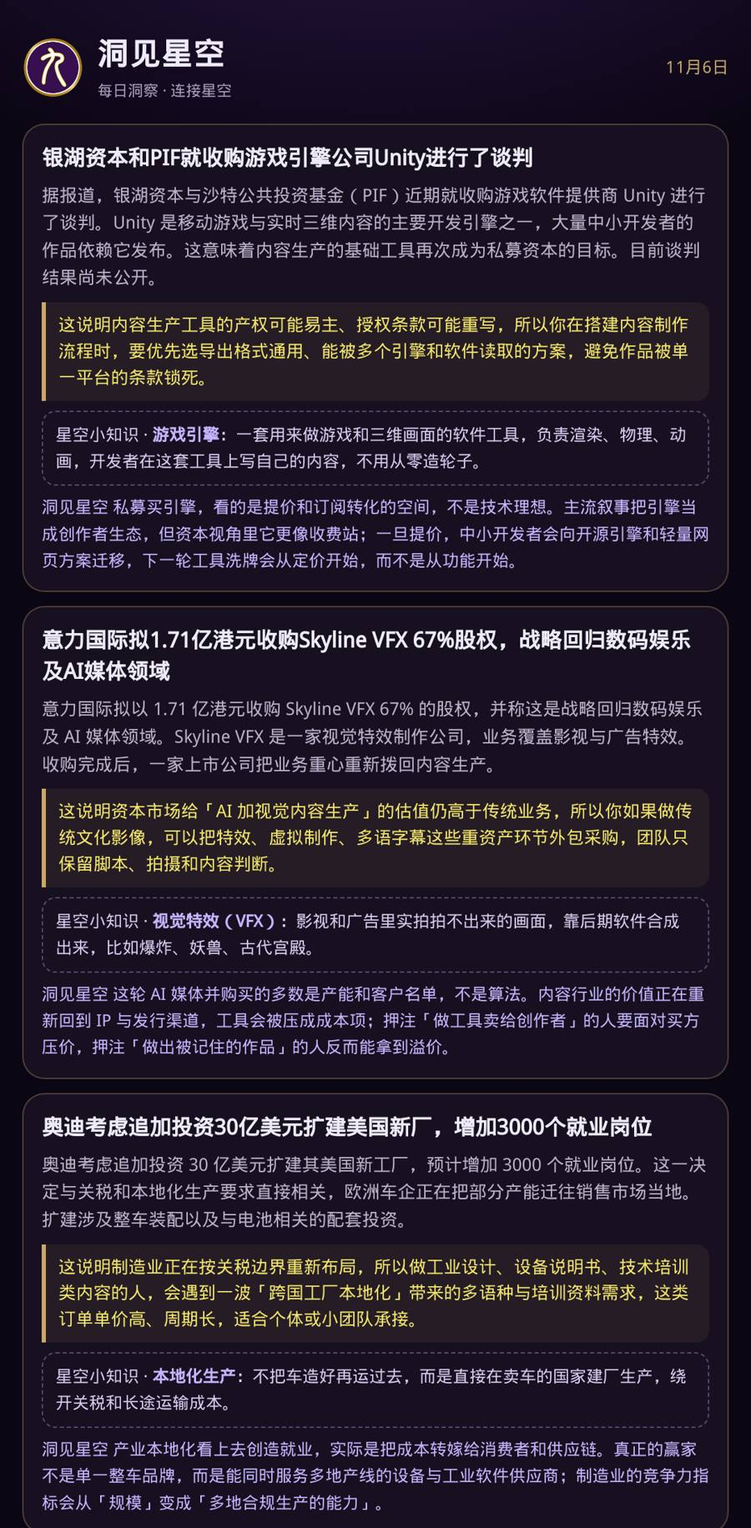
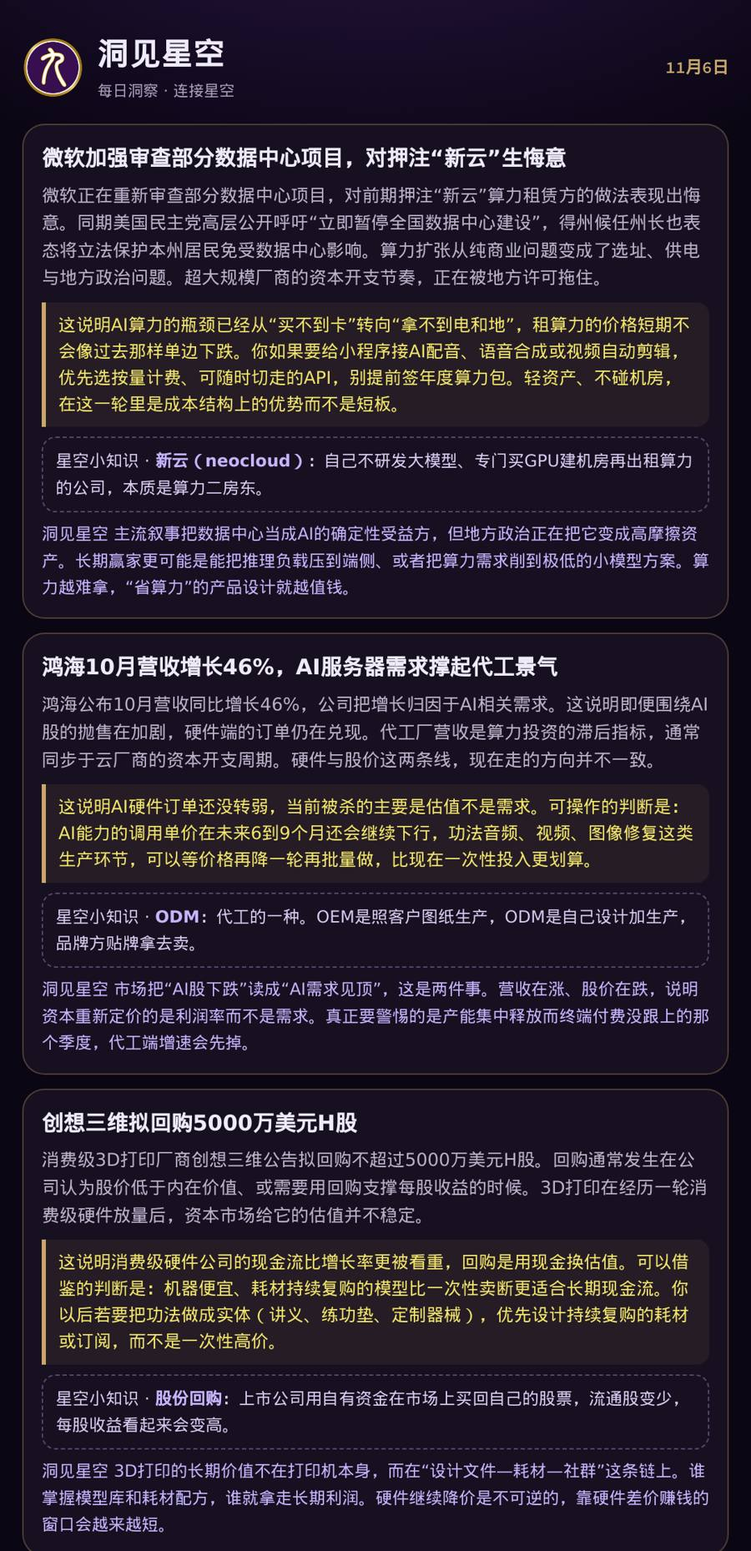
brief 2026-11-06

Changed region(s): [[0.0311, 0.0311, 0.9644, 0.9956], [0.9022, 0.0311, 0.9644, 0.0622], [0.9333, 0.6845, 0.9644, 0.7156]]

diff --git a/2026-11-06.html b/2026-11-06.html
@@ -52,4 +52,4 @@ a{color:#b9a6ff;text-decoration:none}
 .teach{margin-top:10px;padding:10px 12px;border:1px dashed rgba(196,181,253,.35);border-radius:12px;font-size:13.5px;color:#d6ccf0}
 .teach b{color:var(--acc);font-weight:600}
 .foot{margin-top:44px;text-align:center;color:#5d5570;font-size:11px;letter-spacing:1.5px}
-</style></head><body><div class=grid></div><div class=wrap><div class=kicker>DONGJIAN · MORNING</div><div class=head><img class=logo src='logo.png' alt=logo><h1>洞见星空早报</h1></div><div class=sub>2026 年 11 月 6 日 · 星期五</div><h2>世界资讯 · 10</h2><div class=card><h3>银湖资本和PIF就收购游戏引擎公司Unity进行了谈判</h3><p>据报道，银湖资本与沙特公共投资基金（PIF）近期就收购游戏软件提供商 Unity 进行了谈判。Unity 是移动游戏与实时三维内容的主要开发引擎之一，大量中小开发者的作品依赖它发布。这意味着内容生产的基础工具再次成为私募资本的目标。目前谈判结果尚未公开。</p><div class=why>这说明内容生产工具的产权可能易主、授权条款可能重写，所以你在搭建内容制作流程时，要优先选导出格式通用、能被多个引擎和软件读取的方案，避免作品被单一平台的条款锁死。</div><div class=teach>星空小知识 · <b>游戏引擎</b>：一套用来做游戏和三维画面的软件工具，负责渲染、物理、动画，开发者在这套工具上写自己的内容，不用从零造轮子。</div><div class=insight><b>洞察</b> 私募买引擎，看的是提价和订阅转化的空间，不是技术理想。主流叙事把引擎当成创作者生态，但资本视角里它更像收费站；一旦提价，中小开发者会向开源引擎和轻量网页方案迁移，下一轮工具洗牌会从定价开始，而不是从功能开始。</div><div class=chips><a class='chip acc' href='https://finance.sina.com.cn/stock/usstock/c/2026-11-06/doc-inixtxky8323323.shtml'>新浪财经</a></div></div><div class=card><h3>意力国际拟1.71亿港元收购Skyline VFX 67%股权，战略回归数码娱乐及AI媒体领域</h3><p>意力国际拟以 1.71 亿港元收购 Skyline VFX 67% 的股权，并称这是战略回归数码娱乐及 AI 媒体领域。Skyline VFX 是一家视觉特效制作公司，业务覆盖影视与广告特效。收购完成后，一家上市公司把业务重心重新拨回内容生产。</p><div class=why>这说明资本市场给「AI 加视觉内容生产」的估值仍高于传统业务，所以你如果做传统文化影像，可以把特效、虚拟制作、多语字幕这些重资产环节外包采购，团队只保留脚本、拍摄和内容判断。</div><div class=teach>星空小知识 · <b>视觉特效（VFX）</b>：影视和广告里实拍拍不出来的画面，靠后期软件合成出来，比如爆炸、妖兽、古代宫殿。</div><div class=insight><b>洞察</b> 这轮 AI 媒体并购买的多数是产能和客户名单，不是算法。内容行业的价值正在重新回到 IP 与发行渠道，工具会被压成成本项；押注「做工具卖给创作者」的人要面对买方压价，押注「做出被记住的作品」的人反而能拿到溢价。</div><div class=chips><a class='chip acc' href='https://finance.sina.com.cn/stock/hkstock/ggscyd/2026-11-06/doc-inixtxmk5623464.shtml'>新浪财经</a></div></div><div class=card><h3>奥迪考虑追加投资30亿美元扩建美国新厂，增加3000个就业岗位</h3><p>奥迪考虑追加投资 30 亿美元扩建其美国新工厂，预计增加 3000 个就业岗位。这一决定与关税和本地化生产要求直接相关，欧洲车企正在把部分产能迁往销售市场当地。扩建涉及整车装配以及与电池相关的配套投资。</p><div class=why>这说明制造业正在按关税边界重新布局，所以做工业设计、设备说明书、技术培训类内容的人，会遇到一波「跨国工厂本地化」带来的多语种与培训资料需求，这类订单单价高、周期长，适合个体或小团队承接。</div><div class=teach>星空小知识 · <b>本地化生产</b>：不把车造好再运过去，而是直接在卖车的国家建厂生产，绕开关税和长途运输成本。</div><div class=insight><b>洞察</b> 产业本地化看上去创造就业，实际是把成本转嫁给消费者和供应链。真正的赢家不是单一整车品牌，而是能同时服务多地产线的设备与工业软件供应商；制造业的竞争力指标会从「规模」变成「多地合规生产的能力」。</div><div class=chips><a class='chip acc' href='https://finance.sina.com.cn/stock/usstock/c/2026-11-06/doc-inixtxky8324781.shtml'>新浪财经</a></div></div><div class=card><h3>AI抛售潮中买家消失：高盛交易台电话被打爆却无人接盘，对冲基金与散户齐撤</h3><p>报道称在 AI 相关资产的抛售中，高盛交易台的电话被打爆，却找不到接盘方，对冲基金与散户同时撤出。同期有对冲基金在 10 月的 AI 股票上录得约 33% 的回撤。这反映的是流动性枯竭，而不只是价格下跌。</p><div class=why>这说明拥挤交易的退出通道很窄，所以你在选择任何与 AI 主题挂钩的理财产品时，要把「能不能及时退出」放在收益率前面，优先看开放日频率、底层资产是否透明，而不是看宣传的历史年化。</div><div class=teach>星空小知识 · <b>流动性</b>：想卖的时候有没有人接手。有人接叫流动性好，没人接就只能一路降价甩卖，账面价格并不等于能拿到的钱。</div><div class=insight><b>洞察</b> 主流把 AI 回调解释成「泡沫破裂」，但更准确的说法是仓位结构问题：当所有人持有同一批资产，价格发现机制会暂时失效。长期看，这类拥堵会推动资金流向叙事更分散、退出更方便的资产，而不是让人离场。</div><div class=chips><a class='chip acc' href='https://finance.sina.com.cn/roll/2026-11-06/doc-inixtxmh8972935.shtml'>新浪财经</a></div></div><div class=card><h3>「大空头」伯里称无意买入Anthropic股票：将自身存亡押注在乐观预期上</h3><p>因做空次贷成名的投资人迈克尔·伯里表示无意买入 Anthropic 股票，理由是该公司把自身存亡押注在乐观预期上。Anthropic 是头部大模型公司之一，估值高度依赖企业级接口与企业服务的持续放量。这一表态出现在 AI 相关资产普遍回调的时点。</p><div class=why>这说明公开市场开始用现金流而不是故事给 AI 公司定价，所以你在选模型供应商时，要优先选有稳定企业客户、计费方式清晰的平台，避免把产品绑在靠融资续命的服务上，一旦对方调价或断供你无法迁移。</div><div class=teach>星空小知识 · <b>企业级接口（API）</b>：程序调用另一个程序能力的通道，按调用量计费。模型公司最主要的收入来源之一就是把模型能力按次卖给别的公司。</div><div class=insight><b>洞察</b> 主流观点认为头部模型公司「太大而不能倒」，但真正的风险不是倒闭，而是客户按价格迁移。模型能力差距在收敛，真正难被替代的是模型被嵌进工作流之后形成的切换成本，这部分价值会从模型公司转移到应用公司手里。</div><div class=chips><a class='chip acc' href='https://finance.sina.com.cn/stock/usstock/c/2026-11-06/doc-inixtxma5108878.shtml'>新浪财经</a></div></div><div class=card><h3>微软对押注「新云」渐生悔意，加强审查部分数据中心项目</h3><p>据报道，微软正在加强对部分数据中心项目的审查，并对其押注「新云」模式渐生悔意。新云指专门为大模型训练出租图形处理器算力的新兴云服务商，靠长期租约锁定收入。微软此前是这类厂商最大的买家之一，如今开始重新核对租赁的期限与成本。</p><div class=why>这说明头部买家在给算力租赁踩刹车，所以你可以把「推理算力价格继续下行」当作产品设计前提，把重计算能力放在调用侧而不是自建侧，等价格下来再升级体验，不用现在就锁长约。</div><div class=teach>星空小知识 · <b>新云（neocloud）</b>：不做综合云服务，只专门出租图形处理器算力给 AI 公司训练模型的新玩家，靠长期合同收租，本质是算力二房东。</div><div class=insight><b>洞察</b> 市场普遍认为算力永远紧缺，但真正紧缺的是顶级训练集群，不是推理算力。当最大买主开始审查租约，说明供给端已经出现过冲，接下来一到两年推理单价会明显下滑，应用层的成本结构会被重写，靠卖算力赚钱的中间商最先受伤。</div><div class=chips><a class='chip acc' href='https://finance.sina.com.cn/stock/usstock/c/2026-11-06/doc-inixtnvn9139462.shtml'>新浪科技</a></div></div><div class=card><h3>中期选举后民主党高层呼吁限制人工智能产业扩张：「立即暂停全国数据中心建设」</h3><p>中期选举后，民主党高层公开呼吁限制人工智能产业扩张，提出「立即暂停全国数据中心建设」。这一表态与美股大幅调整、AI 相关资产遭抛售出现在同一时间窗口。数据中心是训练与推理算力的物理载体，建设节奏直接决定芯片、电力、冷却设备的订单。AI 扩张第一次成为选举议题。</p><div class=why>这说明算力扩张的政治成本开始显性化，所以你在设计任何依赖大模型的产品时，要把「供应端政策变动」当成常态变量而不是意外，优先做能随时切到小模型或本地推理的方案，别把体验绑死在单一云厂商的某个机型上。</div><div class=teach>星空小知识 · <b>数据中心</b>：放服务器的地方，一栋楼里成千上万台机器同时跑，耗电和散热极大，所以建在哪里、用多少电都要政府批。</div><div class=insight><b>洞察</b> 主流把 AI 资本开支当成不可逆的军备竞赛，但电力、土地、水与地方政治才是真正的约束条件。一旦数据中心从「招商引资项目」变成「邻避设施」，扩张速度会被行政程序而不是芯片产能卡住。长期看算力会从集中训练转向分散推理，这对小团队是结构性利好。</div><div class=chips><a class='chip acc' href='https://finance.sina.com.cn/stock/usstock/c/2026-11-06/doc-inixttce5171077.shtml'>新浪科技</a></div></div><div class=card><h3>嘉和美康被曝欠薪数月、全员降薪，部分项目加班费被要求退还</h3><p>据报道，医疗信息化公司嘉和美康被曝欠薪数月、全员降薪，部分项目的加班费被要求退还。报道称该公司近十年从未赚到真正意义上的利润。医疗信息化行业长期依赖医院项目制收入，回款周期长、定制化程度高。</p><div class=why>这说明项目制 To B 生意的现金流风险正在暴露，所以你在设计任何面向机构的产品或服务时，要坚持预付或分期到账，不要用「验收后付款」把自己绑死，尤其是对接事业单位和医院这类预算收紧的客户。</div><div class=teach>星空小知识 · <b>项目制</b>：一单一单按客户要求定制交付，钱要等验收之后才收，所以账面有收入但手上可能一直缺现金。</div><div class=insight><b>洞察</b> 医疗信息化的困境不是需求消失，而是付款方预算收紧叠加定制化过重，人力成本压不下去。行业会向标准化产品迁移，但速度快不了；真正活下来的是能把交付标准化、把每个项目的定制工时压到最低的少数厂商，规模大反而可能是负担。</div><div class=chips><a class='chip acc' href='https://finance.sina.com.cn/stock/observe/2026-11-05/doc-inixsrrw9421431.shtml'>新浪科技</a></div></div><div class=card><h3>鸿海10月营收增长46%，得益于人工智能需求</h3><p>鸿海公布 10 月营收同比增长 46%，公司把增长归因于人工智能相关需求。鸿海是 AI 服务器的重要代工方，服务器业务在其收入结构中的权重持续上升。这个增速远高于消费电子代工的历史水平。</p><div class=why>这说明 AI 硬件的钱目前集中在整机与机柜组装这一段，所以关注供应链时，做连接器、散热、电源、结构件的中小厂商比做品牌的更容易拿到订单；个体创业者在选硬件方向时应该往这些环节靠，而不是做整机。</div><div class=teach>星空小知识 · <b>代工</b>：别人设计、你负责生产和组装，赚加工费，不承担品牌和销售风险，所以营收大但利润率通常很薄。</div><div class=insight><b>洞察</b> 市场把鸿海的增长直接读成「AI 需求强劲」，但代工营收增长快、毛利率通常不高，说明这轮扩张仍是产能驱动而非技术溢价。真正的利润在芯片和网络互联，组装环节的繁荣会随客户资本开支剧烈波动，看到营收增速就外推利润是误判。</div><div class=chips><a class='chip acc' href='https://finance.sina.com.cn/stock/usstock/c/2026-11-05/doc-inixsrrw9425813.shtml'>新浪科技</a></div></div><div class=card><h3>杨元庆：联想集团向全球PC市占率30%目标迈进</h3><p>杨元庆表示联想集团正朝着全球 PC 市占率 30% 的目标迈进。同期宏碁公布 2026 年前三季度营业收入增长 24%、归母净利润增长 85%。PC 行业在 AI 换机周期中出现回暖迹象，多家厂商利润增速高于收入增速。</p><div class=why>这说明 PC 换机周期被新功能重新点燃，所以做软件或内容的人可以重新评估桌面端的价值：本地算力已经能跑小模型，一些以前必须上云的功能可以搬到本地，既降调用支出又提升响应速度。</div><div class=teach>星空小知识 · <b>市占率</b>：一家公司的销量在整个市场里占的百分比，比如全球每卖 100 台电脑有 30 台是它的。</div><div class=insight><b>洞察</b> AI PC 这个说法被厂商用得太多，但用户真正换机的理由通常只有一个：旧机器跑不动新系统或新软件。30% 市占率是规模故事，不是创新故事；真正的变量在操作系统层的入口之争，谁拿到默认入口谁收租，硬件厂商反而在替别人铺路。</div><div class=chips><a class='chip acc' href='https://finance.sina.com.cn/tob/2026-11-05/doc-inixsrrw9411130.shtml'>新浪科技</a></div></div><h2>科技 · 10</h2><div class=card><h3>极智嘉RS Hyper攀爬机器人首秀，千平方米每小时吞吐6000箱</h3><p>极智嘉在展会上首秀 RS Hyper 攀爬机器人，官方给出的指标是每千平方米每小时吞吐 6000 箱。攀爬式机器人可以在高位货架之间垂直移动，替代传统的升降机加输送线组合。仓储自动化正在从地面搬运转向立体存取。</p><div class=why>这说明立体仓储的单位面积效率又上了一个台阶，所以做实物周边或电商时可以把库存压到极低，用第三方仓的密度换自己的现金流，先验证内容带来的复购再谈备货。</div><div class=teach>星空小知识 · <b>具身智能</b>：让 AI 有身体，能在真实空间里移动、抓取、操作物体，而不只是在屏幕里输出文字和图片。</div><div class=chips><a class='chip acc' href='https://finance.sina.com.cn/tob/2026-11-05/doc-inixsrrq8792885.shtml'>新浪科技</a></div></div><div class=card><h3>驭势科技升级T30无人牵引车，可自动脱挂钩对接拖斗</h3><p>驭势科技升级 T30 无人牵引车，新增自动脱挂钩能力，可以自行对接和脱离拖斗。自动脱挂钩是无人牵引车在港口、机场、工厂内部实现全流程无人化的最后几个卡点之一。此前这一步通常还需要人工介入。</p><div class=why>这说明封闭场景的无人运输已经能跑完整闭环，所以涉及线下场地运营（园区、仓库、演出场地、大型活动）的人，可以开始按「无人转运可用」来规划动线和人力配置，把搬运岗位的预算挪到内容与体验上。</div><div class=teach>星空小知识 · <b>脱挂钩</b>：牵引车和拖斗之间的连接与分离，无人车要自己完成这个动作，才算全程不用人下车操作。</div><div class=chips><a class='chip acc' href='https://finance.sina.com.cn/tob/2026-11-05/doc-inixsrrs5544924.shtml'>新浪科技</a></div></div><div class=card><h3>菜鸟向合作伙伴开放全球仓网，加速物理AI产业化</h3><p>菜鸟宣布向合作伙伴开放其全球仓网，并提出加速「物理 AI」产业化。物理 AI 指把模型能力接到仓储、运输、分拣等真实设备上，而不只是屏幕里的对话。开放仓网意味着外部商家可以直接调用其海外仓储与履约节点，不必自建供应链。</p><div class=why>这说明跨境履约正在变成可调用的公共服务，所以做文化内容出海的人可以先验证内容能不能带来付费，再按订单量接入仓配，不必提前压库存、租海外仓。</div><div class=teach>星空小知识 · <b>履约</b>：从用户下单到货送到手里这一段全过程，包括仓储、打包、干线运输和最后一公里配送。</div><div class=chips><a class='chip acc' href='https://finance.sina.com.cn/tech/it/2026-11-05/doc-inixtafu5952399.shtml'>新浪科技</a></div></div><div class=card><h3>爱立信张永涛：要打造「为AI而建的最佳网络」，让AI从理念走向现实</h3><p>爱立信高管在进博会期间表示，要打造「为 AI 而建的最佳网络」，让 AI 从理念走向现实。其判断是 AI 应用（视频、语音、多模态交互）对上行带宽与时延的要求远高于传统业务。运营商与设备商正把 AI 流量作为下一轮建网的依据。</p><div class=why>这说明网络侧正在为多模态交互改造，所以你做音频、视频类内容时，要按弱网和上行受限的极端条件设计缓存与降级策略，卡顿率会直接反映在完课率和复访率上。</div><div class=teach>星空小知识 · <b>时延</b>：数据从发出到收到的时间差，越低越适合实时互动，比如语音对话和视频通话。</div><div class=chips><a class='chip acc' href='https://finance.sina.com.cn/roll/2026-11-05/doc-inixtafu5950983.shtml'>新浪科技</a></div></div><div class=card><h3>奥迪创新技术中心开业：聚焦驾驶辅助系统与AI智能座舱研发</h3><p>奥迪创新技术中心开业，聚焦驾驶辅助系统与 AI 智能座舱研发，并计划从 2028 年起陆续向中国市场投放四款全新车型。这意味着外资品牌把智能座舱的研发决策前移到中国市场。座舱 AI 的竞争点正从硬件屏幕转向语音与场景服务。</p><div class=why>这说明车载语音与场景服务会出现一波本土供应商窗口期，做语音内容、技能插件、场景脚本的团队值得在 2027 年前接触合资研发中心或一级供应商，越早进入越容易成为默认方案。</div><div class=teach>星空小知识 · <b>智能座舱</b>：车里的那套屏幕、语音和车机系统，负责娱乐、导航、空调和人车对话，是车里面向乘客的那层 AI。</div><div class=chips><a class='chip acc' href='https://finance.sina.com.cn/tech/it/2026-11-05/doc-inixsvxn8721818.shtml'>新浪科技</a></div></div><div class=card><h3>华为鸿蒙电脑发货量破百万</h3><p>华为宣布鸿蒙电脑发货量突破百万台，公司称这是进入 PC 产业第十年的里程碑。鸿蒙电脑使用自研操作系统，应用生态仍在建设期。百万台放在 PC 行业里是很小的数字，但对一个新操作系统而言，是从零到一的门槛。</p><div class=why>这说明国产桌面系统开始有真实装机量，所以做内容或工具的人可以评估在鸿蒙上做一个轻量版本的成本与收益，平台早期缺应用，进入者更容易拿到资源位和推荐。</div><div class=teach>星空小知识 · <b>应用生态</b>：一个操作系统上能用的软件和开发者总量，生态越大用户越离不开，越小越难吸引人换过来。</div><div class=chips><a class='chip acc' href='https://finance.sina.com.cn/tech/discovery/2026-11-05/doc-inixtafu5946837.shtml'>新浪科技</a></div></div><div class=card><h3>华为擎云HM650/HM650g面向政企客户，确认不在电商及线下体验门店出售</h3><p>华为擎云 HM650 / HM650g 面向政企客户，确认不在电商与线下体验门店出售。政企机型通过集采与渠道分销，不走消费者零售。这类产品强调的是可控、可管与长期供货，而不是参数性价比。</p><div class=why>这说明信创采购仍是独立渠道，所以面向机构的软件要按「进入集采目录 + 通过兼容性认证」来准备材料，走个人品牌和消费者路线进不去这个市场，两条路的打法完全不同。</div><div class=teach>星空小知识 · <b>信创</b>：信息技术应用创新，指用国产软硬件替代国外产品，主要在政府和国企采购中推行，采购走专门目录。</div><div class=chips><a class='chip acc' href='https://finance.sina.com.cn/tech/digi/2026-11-05/doc-inixtafu5982695.shtml'>新浪科技</a></div></div><div class=card><h3>上汽与Momenta合作再深化，拟共建智驾合资公司</h3><p>上汽与 Momenta 的合作进一步深化，双方拟共同出资设立智能驾驶合资公司。Momenta 提供算法与数据闭环能力，上汽提供整车平台与量产规模。合资把原本的供应商关系变成了股权绑定。</p><div class=why>这说明算法公司正在被主机厂收进体内，所以做 AI 应用的团队在接大客户时，要先判断对方是想采购还是想控股：采购现金流快，合资天花板高但会稀释控制权，签之前就要想清楚要哪一种。</div><div class=teach>星空小知识 · <b>数据闭环</b>：车在路上采集数据、回传训练模型、再把新模型推回车上，循环往复，模型就越来越强。</div><div class=chips><a class='chip acc' href='https://finance.sina.com.cn/tech/it/2026-11-05/doc-inixsvxw6063869.shtml'>新浪科技</a></div></div><div class=card><h3>比亚迪第二代海豹07上市：首搭云辇-M智能磁流变车身控制系统</h3><p>比亚迪第二代海豹 07 上市，首次搭载云辇-M 智能磁流变车身控制系统，置换价 13.59 万元起。磁流变减振器通过改变磁场来实时调节阻尼，响应速度远快于传统液压悬架。这项技术此前主要出现在高价车型上。</p><div class=why>这说明材料级技术正在快速下沉到十几万元车型，所以做汽车技术科普或后市场内容的人，在 2027 年前还有明显的素材红利，消费者试驾时能立刻感知的差异点会成为新的比较维度。</div><div class=teach>星空小知识 · <b>阻尼</b>：减振器抑制车身弹跳的力度。阻尼大车身更稳更硬，阻尼小更软更舒适，磁流变可以毫秒级切换。</div><div class=chips><a class='chip acc' href='https://finance.sina.com.cn/tech/it/2026-11-05/doc-inixsvxq5541563.shtml'>新浪科技</a></div></div><div class=card><h3>英特尔亮相第九届进博会，展示高能效计算与生态合作成果</h3><p>英特尔在第九届进博会上展示高能效计算与生态合作成果。高能效计算的重点是在相同功耗下提供更多算力，主要面向数据中心与边缘设备。这与 AI 推理从云端下沉到终端的趋势一致，端侧能跑的任务正在变多。</p><div class=why>这说明推理算力正在向低功耗终端迁移，所以做 AI 功能时按「端侧跑小模型、云端跑大模型」分层设计，把高频轻量请求留在本地，能显著压低长期调用支出并提升响应速度。</div><div class=teach>星空小知识 · <b>能效</b>：每瓦电能换来多少算力，越高越省电费。数据中心最大的成本之一就是电，所以这个指标比纯算力更受重视。</div><div class=chips><a class='chip acc' href='https://finance.sina.com.cn/roll/2026-11-05/doc-inixsrrq8787733.shtml'>新浪科技</a></div></div><h2>开源项目 · 10</h2><div class=card><div class=repo><div><div class=n><a href='https://github.com/Renhuai123/ziwei-doushu'>Renhuai123/ziwei-doushu</a></div><div class=d>紫微斗数开源排盘引擎，基于倪海厦《天纪》体系，包含完整排盘算法、四化系统、格局知识库与古籍原文数据，用 TypeScript 实现。</div></div><div class=s>★ 16206</div></div><div class=repo><div><div class=n><a href='https://github.com/SylarLong/iztro'>SylarLong/iztro</a></div><div class=d>轻量级紫微斗数排盘工具库，用于生成星盘数据结构，方便嵌入网页或其他应用。</div></div><div class=s>★ 4351</div></div><div class=repo><div><div class=n><a href='https://github.com/jangviktor-web/nihaixia'>jangviktor-web/nihaixia</a></div><div class=d>以倪海厦视角构建的中医 Agent Skill，基于其教学资料蒸馏伤寒论、金匮要略、黄帝内经、神农本草经、针灸等内容，覆盖六经辨证与八纲辨证。</div></div><div class=s>★ 4007</div></div><div class=repo><div><div class=n><a href='https://github.com/jinchenma94/bazi-skill'>jinchenma94/bazi-skill</a></div><div class=d>四柱八字命理分析技能包，用 Python 实现，可挂载到支持技能调用的模型平台上使用。</div></div><div class=s>★ 3815</div></div><div class=repo><div><div class=n><a href='https://github.com/DestinyLinker/MingLi-Bench'>DestinyLinker/MingLi-Bench</a></div><div class=d>面向中文传统命理（八字与紫微）的模型评测基准，用于量化评估大模型在这类问题上的表现。</div></div><div class=s>★ 2560</div></div><div class=repo><div><div class=n><a href='https://github.com/6tail/lunar-javascript'>6tail/lunar-javascript</a></div><div class=d>日历与历法工具库，支持公历、农历、老黄历、佛历、道历，以及节气、干支、生肖、每日宜忌等数据的计算。</div></div><div class=s>★ 1736</div></div><div class=repo><div><div class=n><a href='https://github.com/china-testing/bazi'>china-testing/bazi</a></div><div class=d>Python 八字排盘软件，能清晰展示冲刑合会、阴阳等关系，并整合了多年经验形成的评判规则，另含合婚、风水功能与手相教程。</div></div><div class=s>★ 1556</div></div></div><div class=card><div class=repo><div class=n style='color:#c9a86a'>热门 · 不限分类</div></div><div class=repo><div><div class=n><a href='https://github.com/cirosantilli/x86-bare-metal-examples'>cirosantilli/x86-bare-metal-examples</a></div><div class=d>几十个最小可运行的操作系统示例，用来学习 x86 底层系统编程，每个例子都能在虚拟机里跑起来。</div></div><div class=s>★ 5436</div></div><div class=repo><div><div class=n><a href='https://github.com/gege-circle/.github'>gege-circle/.github</a></div><div class=d>一个兴趣社群的公共仓库，用仓库的讨论区承载动漫、游戏、科技、人文、生活等话题的交流。</div></div><div class=s>★ 2081</div></div><div class=repo><div><div class=n><a href='https://github.com/OCNYang/QBox'>OCNYang/QBox</a></div><div class=d>一个安卓生活工具类 App 的开源项目，集成网络请求、图片加载等常用组件，内含新闻、笑话等多个模块。</div></div><div class=s>★ 1383</div></div></div><div class=foot>洞见星空 · 仅供学习交流，不构成投资建议</div></div></body></html>
+</style></head><body><div class=grid></div><div class=wrap><div class=kicker>DONGJIAN · MORNING</div><div class=head><img class=logo src='logo.png' alt=logo><h1>洞见星空早报</h1></div><div class=sub>2026 年 11 月 6 日 · 星期五</div><h2>世界资讯 · 7</h2><div class=card><h3>微软加强审查部分数据中心项目，对押注“新云”生悔意</h3><p>微软正在重新审查部分数据中心项目，对前期押注“新云”算力租赁方的做法表现出悔意。同期美国民主党高层公开呼吁“立即暂停全国数据中心建设”，得州候任州长也表态将立法保护本州居民免受数据中心影响。算力扩张从纯商业问题变成了选址、供电与地方政治问题。超大规模厂商的资本开支节奏，正在被地方许可拖住。</p><div class=why>这说明AI算力的瓶颈已经从“买不到卡”转向“拿不到电和地”，租算力的价格短期不会像过去那样单边下跌。你如果要给小程序接AI配音、语音合成或视频自动剪辑，优先选按量计费、可随时切走的API，别提前签年度算力包。轻资产、不碰机房，在这一轮里是成本结构上的优势而不是短板。</div><div class=teach>星空小知识 · <b>新云（neocloud）</b>：自己不研发大模型、专门买GPU建机房再出租算力的公司，本质是算力二房东。</div><div class=insight><b>洞察</b> 主流叙事把数据中心当成AI的确定性受益方，但地方政治正在把它变成高摩擦资产。长期赢家更可能是能把推理负载压到端侧、或者把算力需求削到极低的小模型方案。算力越难拿，“省算力”的产品设计就越值钱。</div><div class=chips><a class='chip acc' href='https://finance.sina.com.cn/stock/usstock/c/2026-11-06/doc-inixtnvn9139462.shtml'>新浪科技</a></div></div><div class=card><h3>鸿海10月营收增长46%，AI服务器需求撑起代工景气</h3><p>鸿海公布10月营收同比增长46%，公司把增长归因于AI相关需求。这说明即便围绕AI股的抛售在加剧，硬件端的订单仍在兑现。代工厂营收是算力投资的滞后指标，通常同步于云厂商的资本开支周期。硬件与股价这两条线，现在走的方向并不一致。</p><div class=why>这说明AI硬件订单还没转弱，当前被杀的主要是估值不是需求。可操作的判断是：AI能力的调用单价在未来6到9个月还会继续下行，功法音频、视频、图像修复这类生产环节，可以等价格再降一轮再批量做，比现在一次性投入更划算。</div><div class=teach>星空小知识 · <b>ODM</b>：代工的一种。OEM是照客户图纸生产，ODM是自己设计加生产，品牌方贴牌拿去卖。</div><div class=insight><b>洞察</b> 市场把“AI股下跌”读成“AI需求见顶”，这是两件事。营收在涨、股价在跌，说明资本重新定价的是利润率而不是需求。真正要警惕的是产能集中释放而终端付费没跟上的那个季度，代工端增速会先掉。</div><div class=chips><a class='chip acc' href='https://finance.sina.com.cn/stock/usstock/c/2026-11-05/doc-inixsrrw9425813.shtml'>新浪科技</a></div></div><div class=card><h3>创想三维拟回购5000万美元H股</h3><p>消费级3D打印厂商创想三维公告拟回购不超过5000万美元H股。回购通常发生在公司认为股价低于内在价值、或需要用回购支撑每股收益的时候。3D打印在经历一轮消费级硬件放量后，资本市场给它的估值并不稳定。</p><div class=why>这说明消费级硬件公司的现金流比增长率更被看重，回购是用现金换估值。可以借鉴的判断是：机器便宜、耗材持续复购的模型比一次性卖断更适合长期现金流。你以后若要把功法做成实体（讲义、练功垫、定制器械），优先设计持续复购的耗材或订阅，而不是一次性高价。</div><div class=teach>星空小知识 · <b>股份回购</b>：上市公司用自有资金在市场上买回自己的股票，流通股变少，每股收益看起来会变高。</div><div class=insight><b>洞察</b> 3D打印的长期价值不在打印机本身，而在“设计文件—耗材—社群”这条链上。谁掌握模型库和耗材配方，谁就拿走长期利润。硬件继续降价是不可逆的，靠硬件差价赚钱的窗口会越来越短。</div><div class=chips><a class='chip acc' href='https://finance.sina.com.cn/stock/hkstock/ggscyd/2026-11-06/doc-inixtxma5129071.shtml'>新浪财经</a></div></div><div class=card><h3>晶合集成拟回购5亿至8亿元A股股份</h3><p>晶合集成公告拟以5亿至8亿元回购A股股份。晶合是面板驱动芯片与特色工艺的代工厂，回购发生在成熟制程价格竞争激烈的阶段。同期有芯片企业选择扩产、有企业选择回购，行业内部对周期的判断已经分化。</p><div class=why>这说明成熟制程芯片已经进入现金为王的阶段，代工厂不敢盲目扩产。对你是可利用的判断：传感器、电源管理、音频解码这类成熟芯片的价格会继续走低，任何带硬件外设的想法（音频播放器、可穿戴计时器）的门槛在下降。先用现成模组小批量验证，别一上来就开模。</div><div class=teach>星空小知识 · <b>成熟制程</b>：指28纳米及以上的芯片制造工艺，门槛低、价格战激烈，常用于驱动芯片和电源管理芯片。</div><div class=insight><b>洞察</b> 芯片行业的回购潮往往是周期底部信号，但它不代表需求回来了，只代表资本开支被压住了。真正的转折要看消费电子换机，而不是看回购公告。把回购当利好来读，是最容易踩的坑。</div><div class=chips><a class='chip acc' href='https://finance.sina.com.cn/stock/hkstock/ggscyd/2026-11-06/doc-inixtxky8354324.shtml'>新浪财经</a></div></div><div class=card><h3>上汽与Momenta拟成立智驾合资公司</h3><p>上汽与自动驾驶公司Momenta宣布深化合作，拟共建智能驾驶合资公司。车企把智驾团队从供应商采购关系改成合资绑定，是为了锁定算法迭代节奏。此前双方已有量产项目合作，这一步是把合作从项目制推到股权制。</p><div class=why>这说明自动驾驶的商业模式正从“卖软件授权”变成“合资分利润”，算法公司要靠股权换装车量。这个结构可以迁移到你的场景：当你手里有稀缺能力（内容体系、师承叙事、社群），单纯卖服务容易被压价，谈联名或分成比谈一次性打包价更稳。</div><div class=teach>星空小知识 · <b>合资公司</b>：两方各出资金或技术成立的新公司，按股权比例分享利润和决策权，不是简单的甲乙方采购。</div><div class=insight><b>洞察</b> 智驾利润正在从整车往算法和数据端迁移，但迁移方式是合资而不是采购，这就意味着算法公司会越来越重资产、越来越像车企。长期看，纯独立算法供应商的生存空间会被股权关系挤压。</div><div class=chips><a class='chip acc' href='https://finance.sina.com.cn/tech/it/2026-11-05/doc-inixsvxw6063869.shtml'>新浪科技</a></div></div><div class=card><h3>进博会医疗创新孵化专区从展示窗口升级为创新加速器</h3><p>第九届进博会设置医疗创新孵化专区，官方定位从展示窗口升级为创新加速器，强调链接全球创新与中国需求的双循环。专区聚集的是早期医疗技术项目，而不是成熟药企的成品展。进博会的功能正在向撮合早期项目落地延伸。</p><div class=why>这说明大展会开始承担早期项目的融资和落地撮合，而不只是品牌曝光。可以关注这类专区公开的路演名单和合作需求：传统文化与身心健康方向如果能挂靠“健康管理、康复辅助”的表述，有机会进这类撮合场景拿到渠道，而不是只拿流量。</div><div class=teach>星空小知识 · <b>创新孵化专区</b>：展会里专门给早期项目设的展区，通常配路演、投资对接和落地政策咨询，不是卖货的展台。</div><div class=insight><b>洞察</b> 医疗创新的落地路径正在被“展会加地方园区加产业基金”的三段式替代传统审批长跑，但这套路径对合规文本的要求更高。谁能把产品说成可被医疗体系接纳的辅助工具，谁就能拿到B端渠道，这比C端投放便宜得多。</div><div class=chips><a class='chip acc' href='https://www.chinanews.com.cn/cj/2026/11-05/10726967.shtml'>中新网财经</a></div></div><div class=card><h3>韩日股市暴跌，日经较6月高点跌超20%进入技术性熊市</h3><p>随着AI股抛售加剧，日经225指数较6月高点下跌20%，进入技术性熊市，韩国Kospi一度跌超8%并触发熔断、暂停交易。市场把原因指向AI权重股的集中抛售和美国中期选举后的政策不确定性。资金正在从高估值科技资产撤出。</p><div class=why>这说明AI叙事已进入用股价检验的阶段，融资环境会比过去一年紧。接下来半年AI应用类公司融资更难、更看重收入验证，面向小团队的SaaS和工具会出现更激烈的价格战和更多免费额度。趁这个窗口多囤几家工具的免费额度，把内容生产流程先跑通。</div><div class=teach>星空小知识 · <b>技术性熊市</b>：指数从近期高点下跌超过20%就叫技术性熊市，是统计定义，不代表经济已经衰退。</div><div class=insight><b>洞察</b> 把这轮下跌读成“AI结束”是错的，它更像是资本从卖铲子的人往用铲子赚钱的人重新分配。真正危险的不是估值下跌，而是只有AI概念、没有现金流的中间层公司会成批消失。</div><div class=chips><a class='chip acc' href='https://wallstreetcn.com/livenews/3195429'>华尔街见闻</a></div></div><h2>科技 · 7</h2><div class=card><h3>民主党高层呼吁“立即暂停全国数据中心建设”</h3><p>美国中期选举后，民主党高层公开呼吁立即暂停全国数据中心建设。把AI基建直接放进政治议题，这在两年前还只是地方噪音。数据中心选址现在同时牵扯电价、水资源、居民抗议和州级立法，审批链条被拉长。</p><div class=why>这说明AI算力的扩张速度第一次被政治变量卡住，未来12个月海外数据中心的审批周期会变长。据此判断：依赖海外超大模型API的单位成本不会快速下降，做产品时要把模型调用做成可替换的一层，别把业务逻辑写死在某一家API上。</div><div class=teach>星空小知识 · <b>数据中心</b>：放服务器的大机房，耗电和耗水都极大，一个大型园区用电量相当于一座中小城市。</div><div class=chips><a class='chip acc' href='https://finance.sina.com.cn/stock/usstock/c/2026-11-06/doc-inixttce5171077.shtml'>新浪科技</a></div></div><div class=card><h3>得州候任州长将立法保护公民免受数据中心影响</h3><p>得州候任州长表示将出台法律，保护本州公民免受数据中心带来的影响。得州是美国数据中心最集中的地区之一，电价低、土地便宜。州级立法意味着算力扩张要在招商引资和居民负担之间重新平衡。</p><div class=why>这说明算力基建的地方阻力已经从环保团体上升到州政府层级，选址成本会传导到算力租金。可发展的方向是本地化、小体积的模型部署：端侧推理和私有小模型因为不占用公共电网和土地，会获得政策顺风，值得提前关注开源小模型在消费级硬件上的表现。</div><div class=teach>星空小知识 · <b>州级立法</b>：美国各州有自己的议会和法律，州法可以在联邦没管到的地方先行设限，比如用电和用地。</div><div class=chips><a class='chip acc' href='https://finance.sina.com.cn/stock/usstock/c/2026-11-06/doc-inixtxky8352566.shtml'>新浪财经</a></div></div><div class=card><h3>爱立信称要打造“为AI而建的最佳网络”</h3><p>爱立信高管在进博会上表示，目标是打造“为AI而建的最佳网络”，让AI从理念走向现实。核心是把网络从传输管道改造成能感知业务类型、按需分配带宽和时延的基础设施。运营商正在把自己重新定位成AI服务链的一环。</p><div class=why>这说明网络侧开始为AI应用做专门的资源调度，实时音视频的体验门槛会下降。你可以据此安排：功法视频和音频的未来分发，优先用自适应码率和弱网优化成熟的云服务，不要自己折腾转码，把精力留在内容和教学体系上。</div><div class=teach>星空小知识 · <b>时延</b>：数据从发出到收到的时间，单位毫秒。直播、视频通话、远程带练对时延最敏感。</div><div class=chips><a class='chip acc' href='https://finance.sina.com.cn/roll/2026-11-05/doc-inixtafu5950983.shtml'>新浪科技</a></div></div><div class=card><h3>奥迪创新技术中心聚焦驾驶辅助与AI座舱</h3><p>奥迪创新技术中心开业，聚焦驾驶辅助系统与AI智能座舱研发，并计划从2028年起在中国投放四款全新车型。外资车企把研发中心放在中国，是为了跟上本地智能化节奏。AI座舱的竞争点是语音、场景联动和本地服务接入。</p><div class=why>这说明AI座舱正变成车企标配卖点，语音交互和场景编排会被大规模采购。这是一个新的分发入口：车载音频、呼吸练习、短时功法课程都可能成为座舱内容供给，值得提前准备适合语音交互、无屏操作的3到5分钟短内容。</div><div class=teach>星空小知识 · <b>智能座舱</b>：车里的中控系统，含语音助手、屏幕、座椅空调等联动，是车企现在主打的差异点。</div><div class=chips><a class='chip acc' href='https://finance.sina.com.cn/tech/it/2026-11-05/doc-inixsvxn8721818.shtml'>新浪科技</a></div></div><div class=card><h3>比亚迪海豹07首搭云辇-M磁流变车身控制系统</h3><p>比亚迪第二代海豹07上市，首次搭载云辇-M智能磁流变车身控制系统。磁流变悬架通过改变磁场实时调节阻尼，响应速度比传统液压快。这套系统过去主要出现在豪华品牌上，现在下放到十几万元价位。</p><div class=why>这说明高端硬件的下放速度在加快，单点体验的领先窗口越来越短。对内容产品是明确提醒：靠某个功能领先建立的差异，18个月内就可能被同行用现成方案追平，护城河要建在用户关系和内容积累上，不要建在单点功能上。</div><div class=teach>星空小知识 · <b>磁流变悬架</b>：减震器里的油液含磁性颗粒，通电后黏度瞬间变化，从而实时调节软硬。</div><div class=chips><a class='chip acc' href='https://finance.sina.com.cn/tech/it/2026-11-05/doc-inixsvxq5541563.shtml'>新浪科技</a></div></div><div class=card><h3>杨元庆称联想向全球PC市占率30%目标迈进</h3><p>杨元庆表示联想集团正向全球PC市占率30%的目标迈进。PC行业整体出货量平稳，增长主要来自换机和AI PC带来的单价提升。厂商把AI PC当成拉动均价的概念，而不是出货量的引擎。</p><div class=why>这说明AI PC目前更多是硬件厂商的均价故事，不是用户真的在用。可以据此判断：端侧AI的实际使用率会长期低于宣传，短期不要把产品做在必须依赖端侧算力的前提上，云端加浏览器就能跑通的方案更稳。</div><div class=teach>星空小知识 · <b>NPU</b>：神经网络处理单元，专门跑AI模型的计算单元，装在电脑或手机里，可以在本地推理不必联网。</div><div class=chips><a class='chip acc' href='https://finance.sina.com.cn/tob/2026-11-05/doc-inixsrrw9411130.shtml'>新浪科技</a></div></div><div class=card><h3>英特尔进博会展示高能效计算与生态合作</h3><p>英特尔在第九届进博会上展示高能效计算与生态合作成果。在算力成本高企、数据中心被地方限制的背景下，厂商把每瓦性能作为核心卖点。这是从堆峰值算力往省电的话语转向。</p><div class=why>这说明算力行业的竞争指标正在从峰值性能换成能效比，谁的每瓦性能高谁拿订单。可以记一个判断：任何单位成本产出被重新定义的行业都会出现新的低价供给，AI推理价格还会继续降，内容生产的批量环节可以再等一轮降价。</div><div class=teach>星空小知识 · <b>每瓦性能</b>：消耗一瓦电能看到多少计算产出。数据中心电费占比极高，这个指标比峰值算力更实在。</div><div class=chips><a class='chip acc' href='https://finance.sina.com.cn/roll/2026-11-05/doc-inixsrrq8787733.shtml'>新浪科技</a></div></div><h2>开源项目 · 10</h2><div class=card><div class=repo><div><div class=n><a href='https://github.com/Renhuai123/ziwei-doushu'>Renhuai123/ziwei-doushu</a></div><div class=d>紫微斗数开源排盘引擎，基于倪海厦《天纪》体系，含完整排盘算法、四化系统、格局知识库与古籍原文数据。</div></div><div class=s>★ 16208</div></div><div class=repo><div><div class=n><a href='https://github.com/SylarLong/iztro'>SylarLong/iztro</a></div><div class=d>生成紫微斗数星盘的轻量工具包，前端可直接调用。</div></div><div class=s>★ 4351</div></div><div class=repo><div><div class=n><a href='https://github.com/jangviktor-web/nihaixia'>jangviktor-web/nihaixia</a></div><div class=d>以倪海厦教学资料为基础的中医Agent技能包，蒸馏伤寒论、金匮要略、黄帝内经、针灸篇等，走六经辨证与八纲辨证。</div></div><div class=s>★ 4007</div></div><div class=repo><div><div class=n><a href='https://github.com/jinchenma94/bazi-skill'>jinchenma94/bazi-skill</a></div><div class=d>四柱八字命理分析工具，以技能形式接入AI助手。</div></div><div class=s>★ 3815</div></div><div class=repo><div><div class=n><a href='https://github.com/DestinyLinker/MingLi-Bench'>DestinyLinker/MingLi-Bench</a></div><div class=d>评估大模型在中国传统命理（八字、紫微）上表现的基准测试。</div></div><div class=s>★ 2560</div></div><div class=repo><div><div class=n><a href='https://github.com/6tail/lunar-javascript'>6tail/lunar-javascript</a></div><div class=d>支持公历、农历、老黄历、佛历、道历，以及节气、干支、宜忌等历法计算的JavaScript库。</div></div><div class=s>★ 1736</div></div><div class=repo><div><div class=n><a href='https://github.com/FANzR-arch/Numerologist_skills'>FANzR-arch/Numerologist_skills</a></div><div class=d>一个工程框架，目标是约束大模型在中国命理领域的幻觉，被作者形容为给“赛博半仙”戴上紧箍咒。</div></div><div class=s>★ 1567</div></div></div><div class=card><div class=repo><div class=n style='color:#c9a86a'>热门 · 不限分类</div></div><div class=repo><div><div class=n><a href='https://github.com/cirosantilli/x86-bare-metal-examples'>cirosantilli/x86-bare-metal-examples</a></div><div class=d>几十个最小可运行的操作系统示例，用来学习x86裸机系统编程，曾在Ubuntu上测试。</div></div><div class=s>★ 5436</div></div><div class=repo><div><div class=n><a href='https://github.com/gege-circle/.github'>gege-circle/.github</a></div><div class=d>一个GitHub上的中文交流社区，讨论动漫、游戏、科技、人文、生活等话题。</div></div><div class=s>★ 2081</div></div><div class=repo><div><div class=n><a href='https://github.com/OCNYang/QBox'>OCNYang/QBox</a></div><div class=d>一个Android生活工具App，集成新闻、笑话、内容等模块，技术栈为RxJava+Retrofit+OkHttp+Glide。</div></div><div class=s>★ 1383</div></div></div><div class=foot>洞见星空 · 仅供学习交流，不构成投资建议</div></div></body></html>
